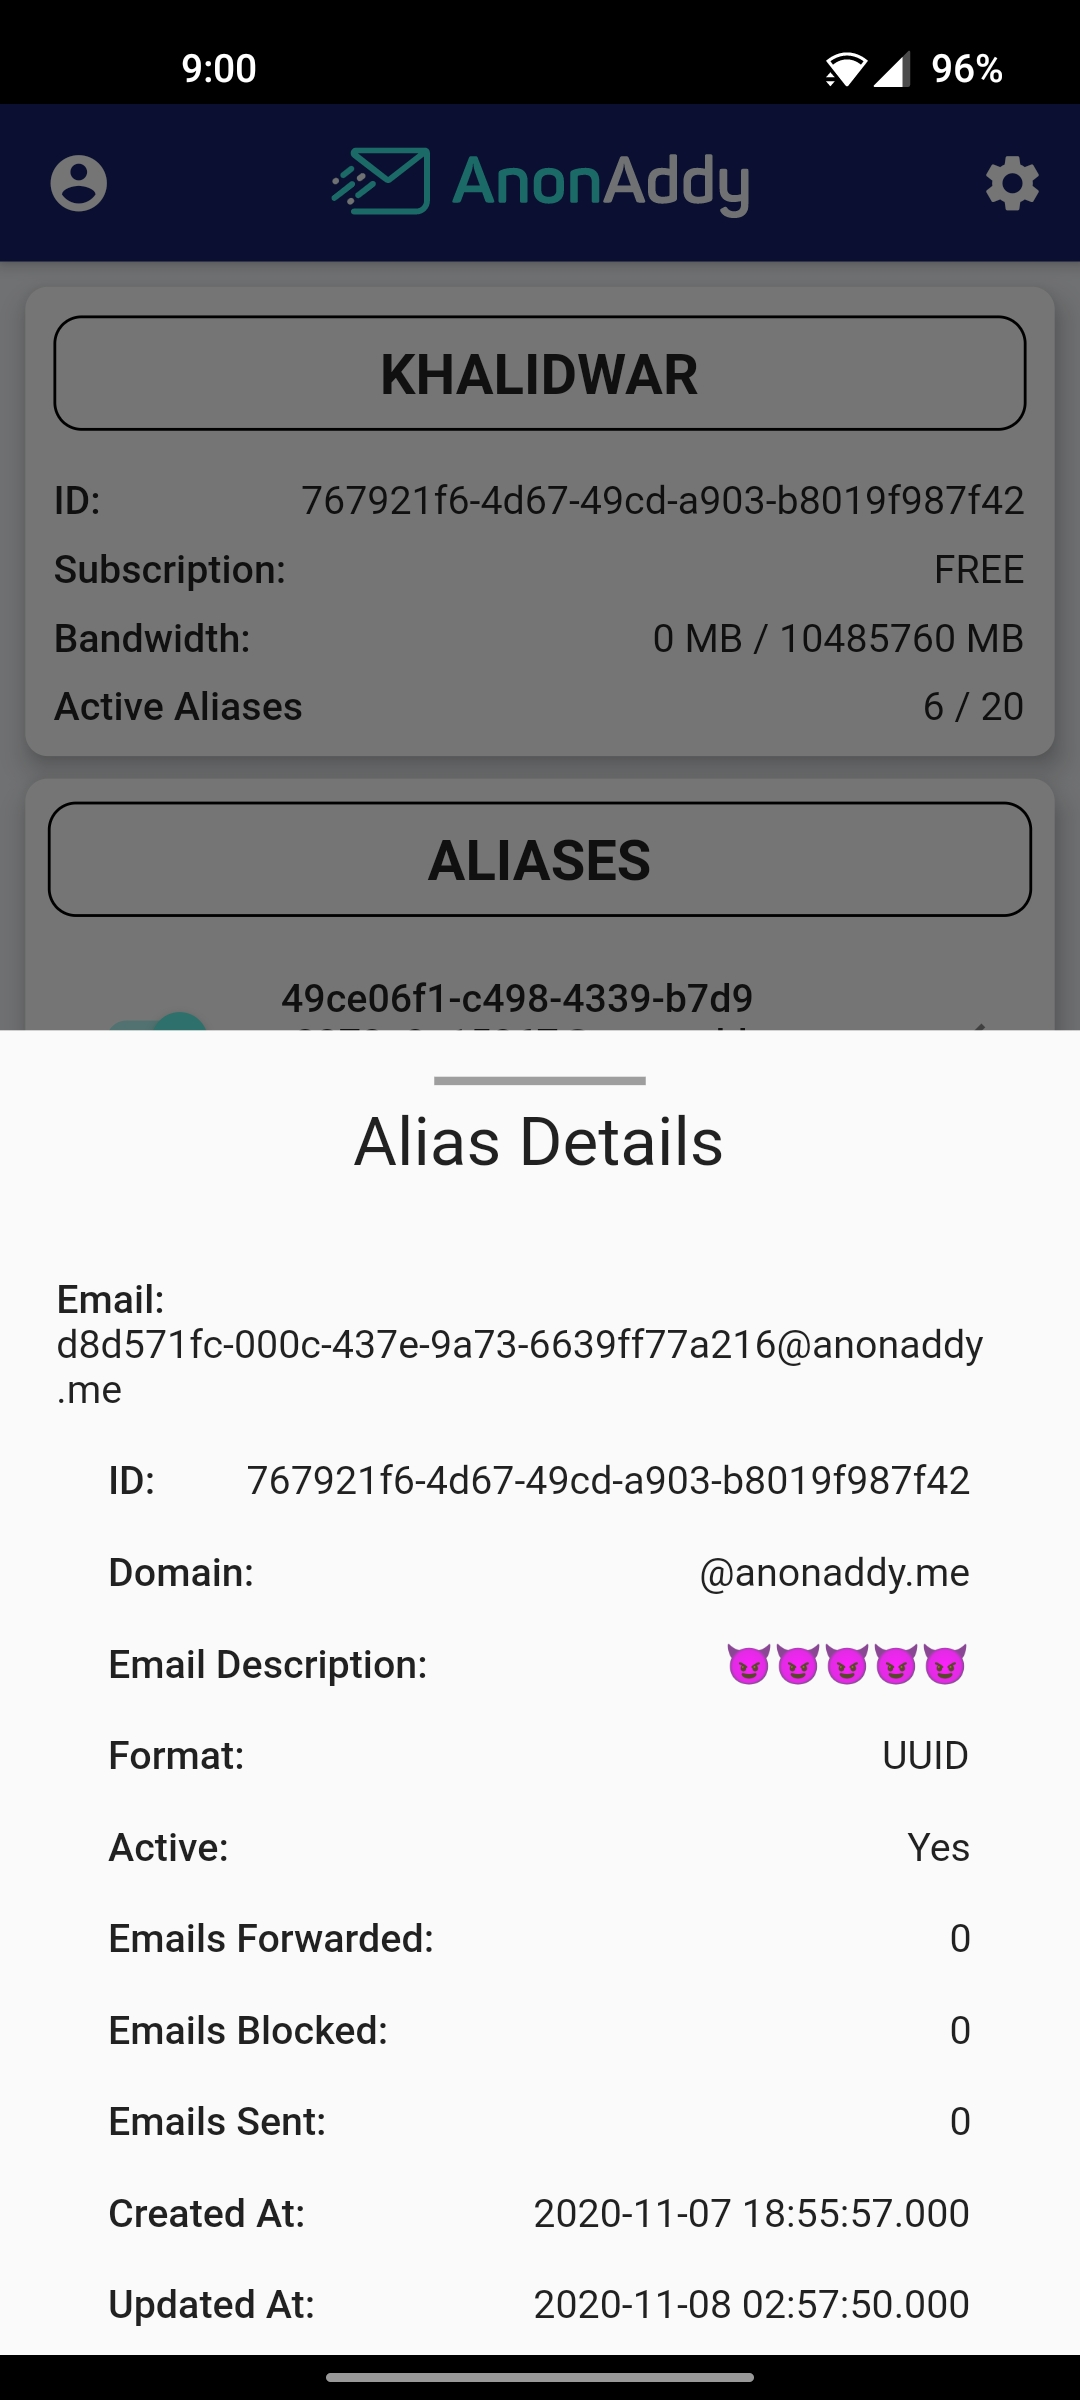
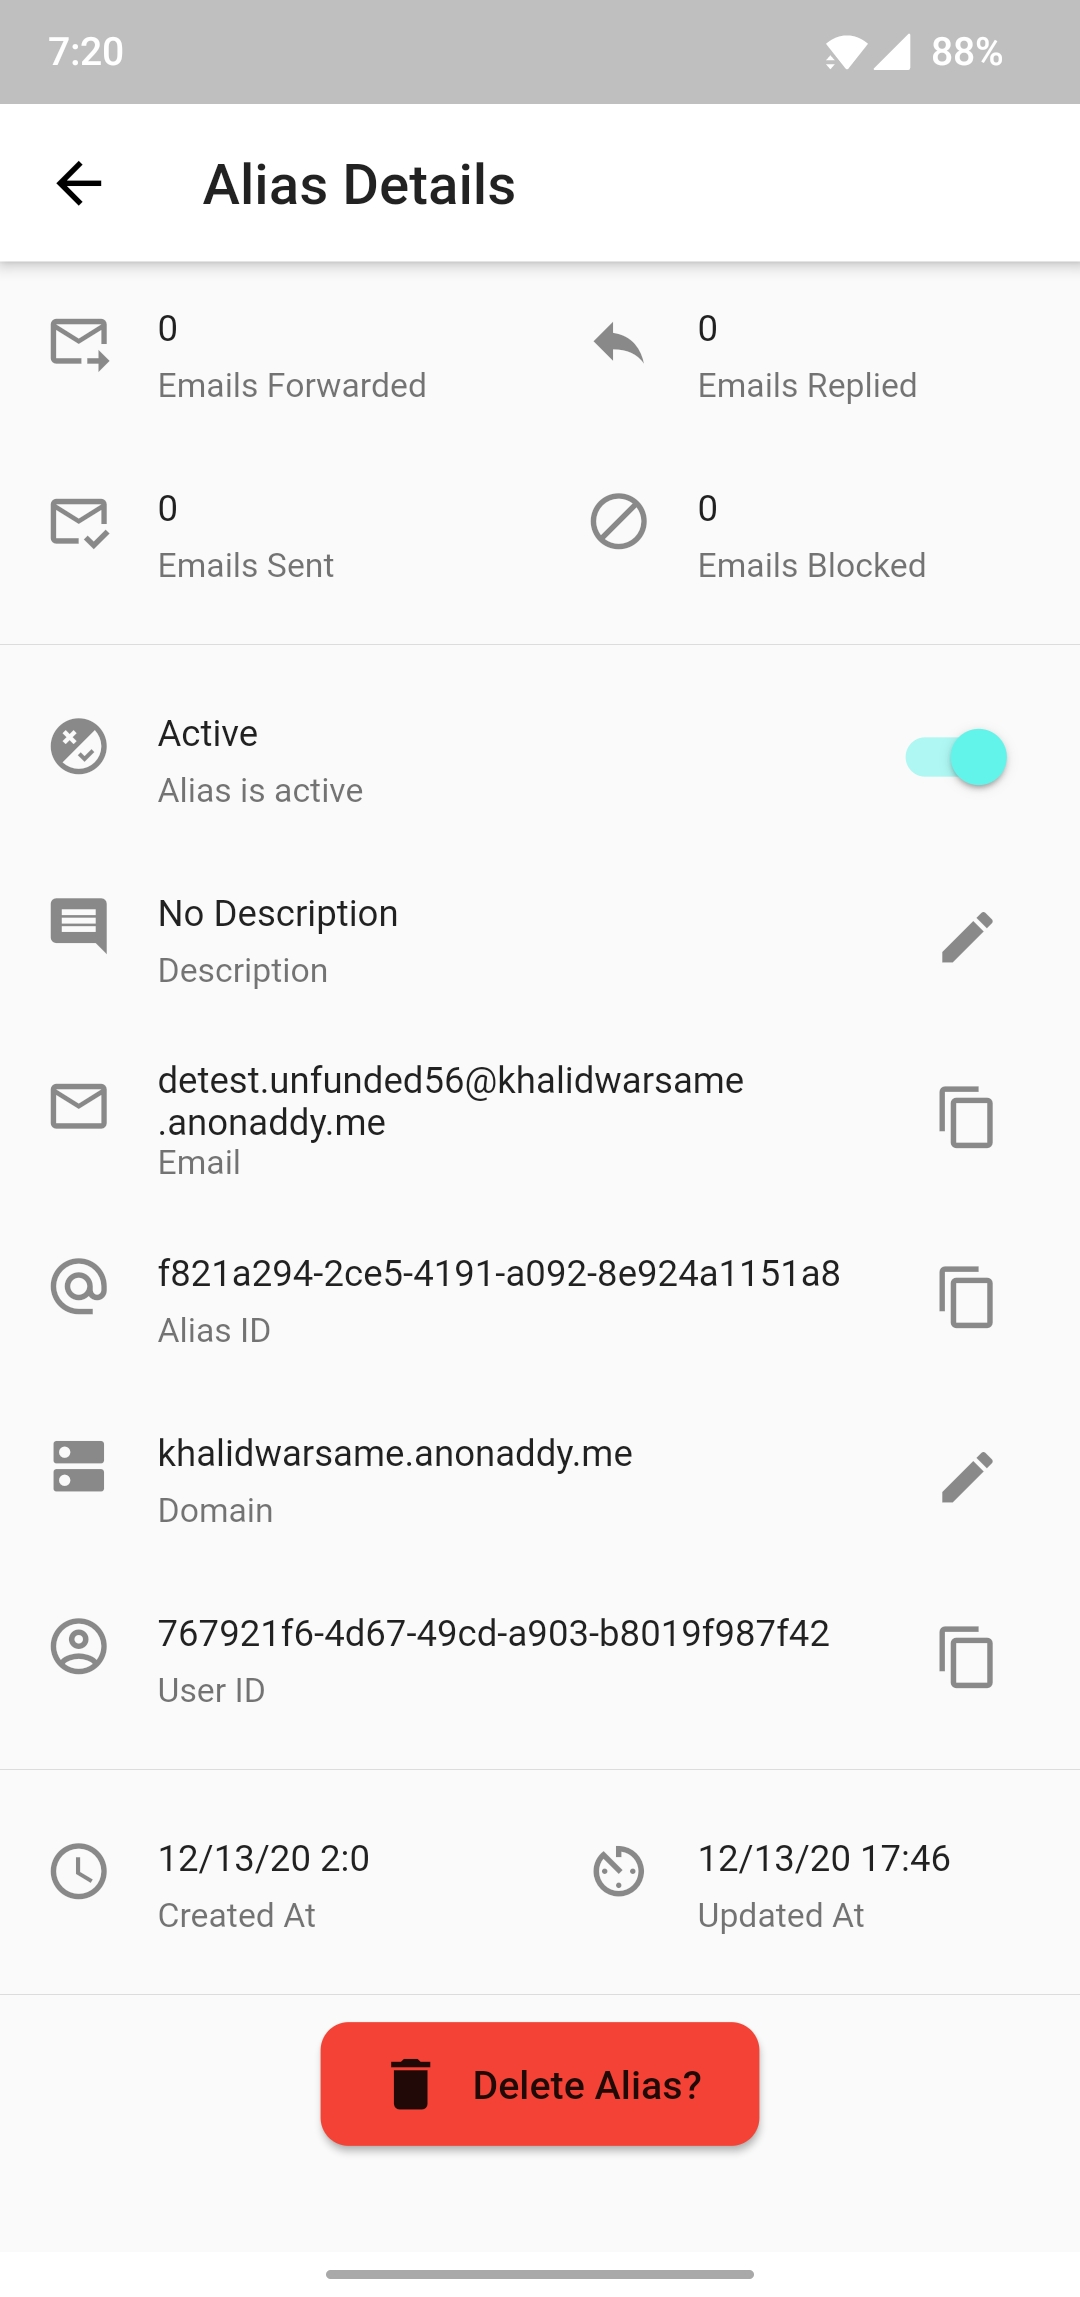
Updated README and screenshots

diff --git a/README.md b/README.md
@@ -2,16 +2,28 @@
 Mobile app for [AnonAddy](https://anonaddy.com/). This app utilises [AnonAddy's API](https://app.anonaddy.com/docs/) to interact with user account. This app has reached a stable release version as most basic crucial features have been implemented.
 
 ## Screenshots
-<img src="assets/screenshots/home.jpg" width="150"> <img src="assets/screenshots/alias_detail.jpg" width="150"> <img src="assets/screenshots/delete_alias.jpg" width="150">
+<img src="assets/screenshots/account.jpg" width="150"> <img src="assets/screenshots/alias.jpg" width="150"> <img src="assets/screenshots/search.jpg" width="150"> <img src="assets/screenshots/create_new_alias.jpg" width="150"> <img src="assets/screenshots/alias_detail.jpg" width="150">
 
 
 ## Features
 - Log in with [Access Token](https://app.anonaddy.com/settings).
-- Get your AnonAddy's account details including usernames and aliases.
-- Create new aliases with only 2 taps, custom description available.
+- Get AnonAddy account details including additional usernames and their details.
+- Get detailed view of available and deleted aliases.
+- Create new alias with custom description, domain, and format (UUID and random words).
+- Search aliases by email address, alias id, or description.
+- Copy alias email address with a single tap.
 - Activate and deactivate aliases on the fly.
-- Delete selected alias.
+- Delete and restore aliases.
 - Adaptive and persistive Light and Dark themes.
+
+
+## Security
+App requires [Access Token](https://app.anonaddy.com/settings) to access and manage your AnonAddy account. 
+This app uses secure storage, [Keychain](https://developer.apple.com/documentation/security/keychain_services#//apple_ref/doc/uid/TP30000897-CH203-TP1) for iOS and [KeyStore](https://developer.android.com/training/articles/keystore) for Android, to safely and securely store provided access token.
+
+
+## Privacy
+This app is a one of [Khalid War's](https://github.com/KhalidWar) personal projects. It's free and open source licensed under [MIT](https://github.com/KhalidWar/anonaddy/blob/master/LICENSE). It's presented to you without any Ads or trackers. Please feel free to inspect the code and verify for yourself. 
 
 
 ## Packages used
@@ -21,9 +33,10 @@ Mobile app for [AnonAddy](https://anonaddy.com/). This app utilises [AnonAddy's 
 - [Flutter SVG](https://pub.dev/packages/flutter_svg)
 - [Font Awesome Flutter](https://pub.dev/packages/font_awesome_flutter)
 - [URL Launcher](https://pub.dev/packages/url_launcher)
-- [Flutter Slidable](https://pub.dev/packages/flutter_slidable)
 - [Clipboard](https://pub.dev/packages/clipboard)
-- [Get It](https://pub.dev/packages/get_it)
+- [Lottie](https://pub.dev/packages/lottie)
+- [Flutter Secure Storage](https://pub.dev/packages/flutter_secure_storage)
+- [FlutterToast](https://pub.dev/packages/fluttertoast)
 
 
 ## Installation
